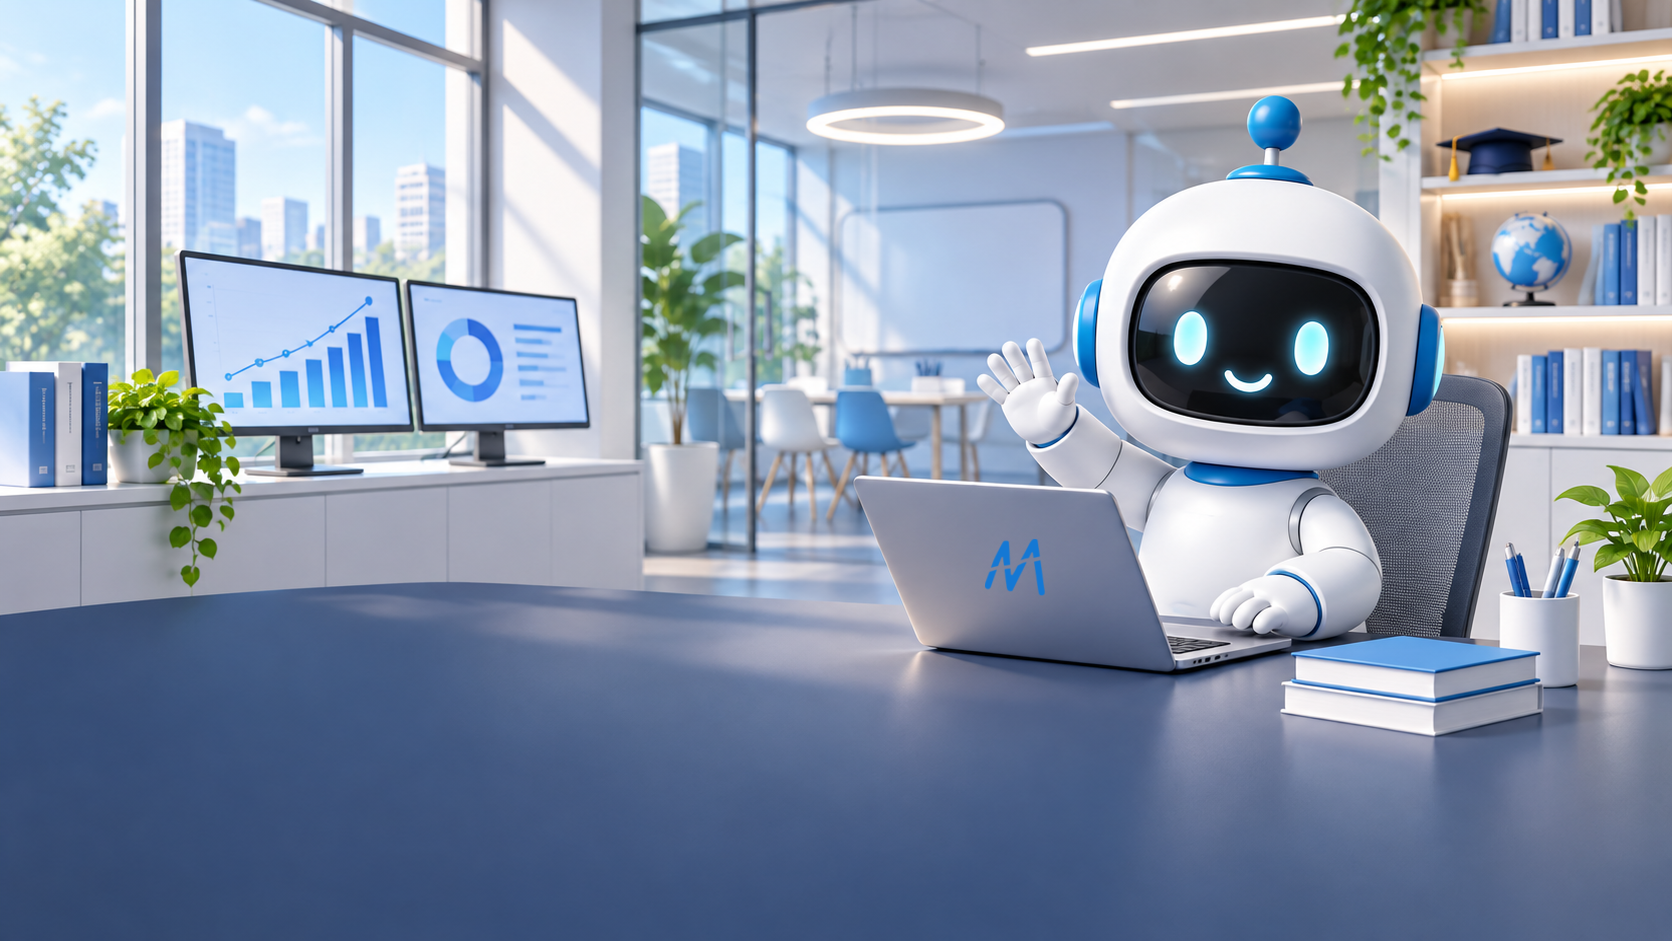
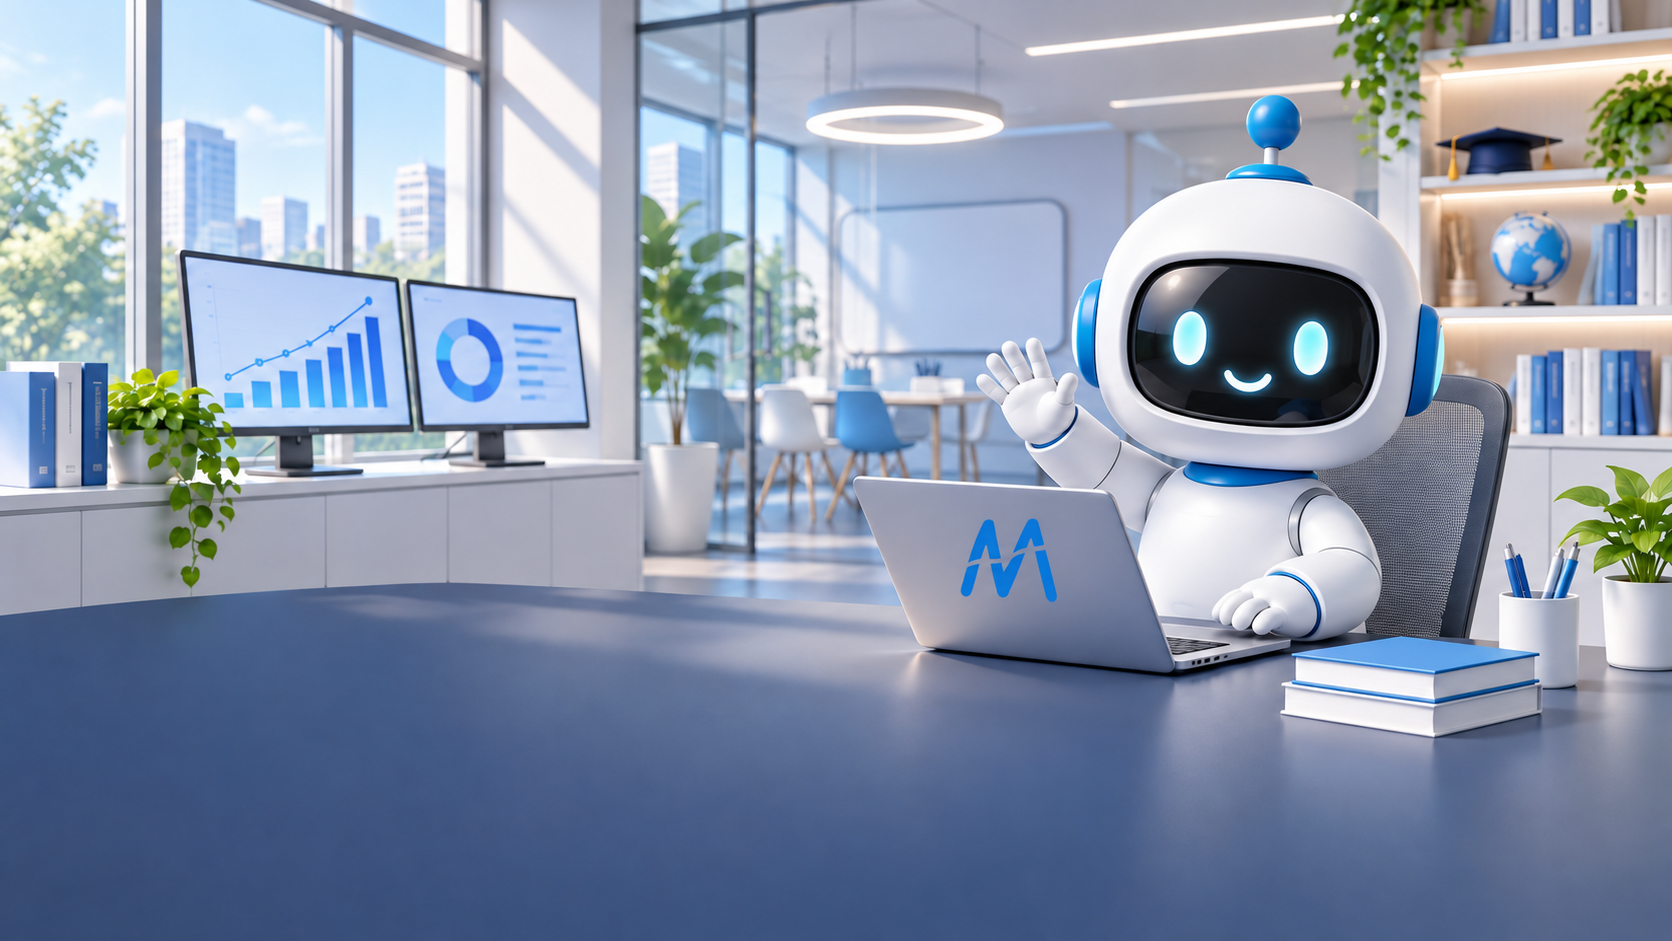
fix: keep workspace card backs in sync

diff --git a/src/repositories/store.js b/src/repositories/store.js
@@ -320,11 +320,25 @@ export class Store {
     const channel = this.getWorkspaceChannel(id);
     if (!channel) return null;
     const timestamp = isoNow();
-    this.db.prepare(`UPDATE workspace_channels SET published_config_json = draft_config_json, published_version = published_version + 1, published_at = ?, updated_at = ? WHERE id = ?`).run(timestamp, timestamp, id);
-    this.db.prepare(`UPDATE channel_deployments
-      SET published_config_json = COALESCE((SELECT profile_json FROM people WHERE people.id = channel_deployments.person_id), '{}'),
-          published_version = published_version + 1, published_at = ?, updated_at = ?
-      WHERE workspace_channel_id = ?`).run(timestamp, timestamp, id);
+    this.db.exec("BEGIN IMMEDIATE");
+    try {
+      this.db.prepare(`UPDATE workspace_channels SET published_config_json = draft_config_json, published_version = published_version + 1, published_at = ?, updated_at = ? WHERE id = ?`).run(timestamp, timestamp, id);
+      if (channel.provider === "website") {
+        this.db.prepare(`UPDATE workspace_channels
+          SET published_config_json = draft_config_json,
+              published_version = published_version + 1,
+              published_at = ?, updated_at = ?
+          WHERE workspace_id = ? AND provider = 'miniapp'`).run(timestamp, timestamp, channel.workspaceId);
+      }
+      this.db.prepare(`UPDATE channel_deployments
+        SET published_config_json = COALESCE((SELECT profile_json FROM people WHERE people.id = channel_deployments.person_id), '{}'),
+            published_version = published_version + 1, published_at = ?, updated_at = ?
+        WHERE workspace_channel_id = ?`).run(timestamp, timestamp, id);
+      this.db.exec("COMMIT");
+    } catch (error) {
+      this.db.exec("ROLLBACK");
+      throw error;
+    }
     return this.getWorkspaceChannel(id);
   }
 

diff --git a/tests/platform-admin.test.js b/tests/platform-admin.test.js
@@ -642,6 +642,10 @@ test("new people can be deployed to an existing website channel", async (t) => {
   const app = await fixture();
   t.after(() => app.close());
 
+  const miniappChannel = app.store.getWorkspaceChannel("dingmai-miniapp");
+  await request(app.baseUrl, "/api/admin/channels/dingmai-miniapp", { method: "PUT", body: {
+    config: { ...miniappChannel.config, assistantName: "工作区统一公司助手" }
+  } });
   await request(app.baseUrl, "/api/admin/channels/dingmai-website/publish", { method: "POST" });
   const person = await request(app.baseUrl, "/api/admin/workspaces/dingmai/people", { method: "POST", body: {
     id: "sales-li",
@@ -660,6 +664,7 @@ test("new people can be deployed to an existing website channel", async (t) => {
   assert.equal(preview.data.deployments.length, 2);
   assert.deepEqual(preview.data.deployments.map((item) => item.person.name), ["向小顶", "李明"]);
   const published = await request(app.baseUrl, "/api/public/channels/dingmai-website");
+  assert.equal(published.data.cardPresentation.config.assistantName, "工作区统一公司助手");
   const publishedPerson = published.data.deployments.find((item) => item.person.id === "sales-li");
   assert.equal(publishedPerson.config.phone, "13800000000");
   assert.deepEqual(publishedPerson.config.suggestedQuestions, ["如何合作？"]);
